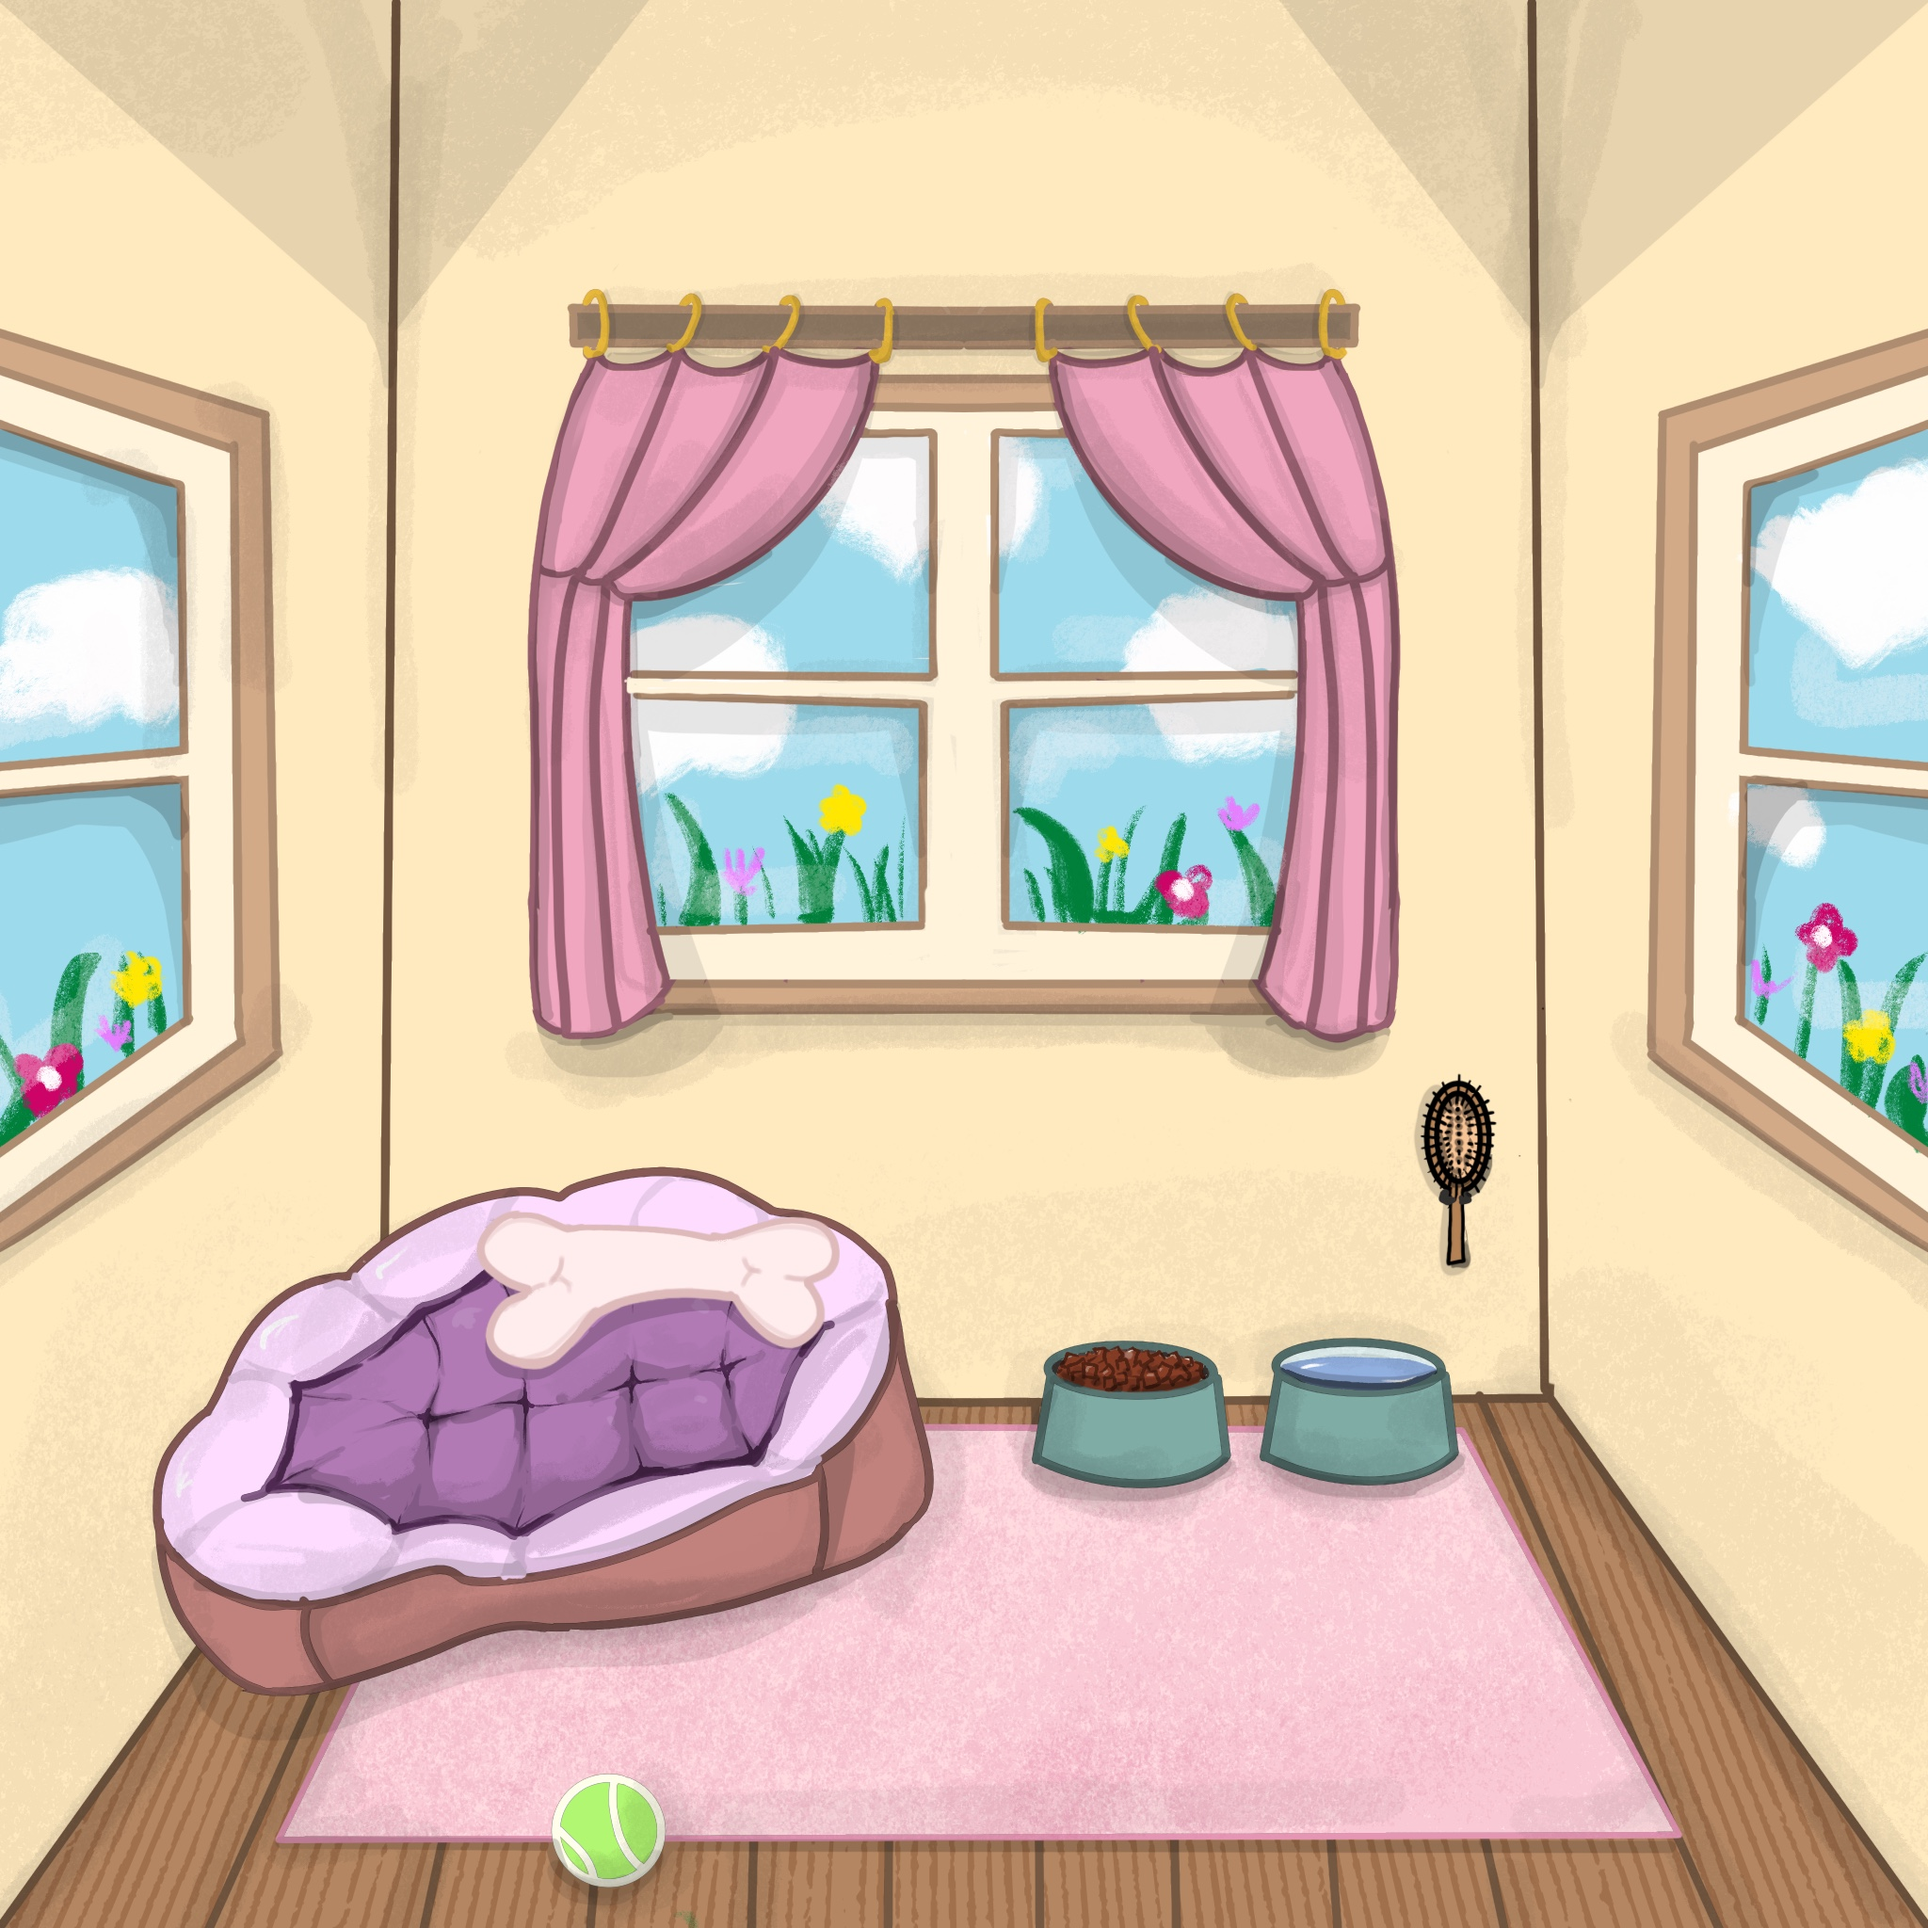
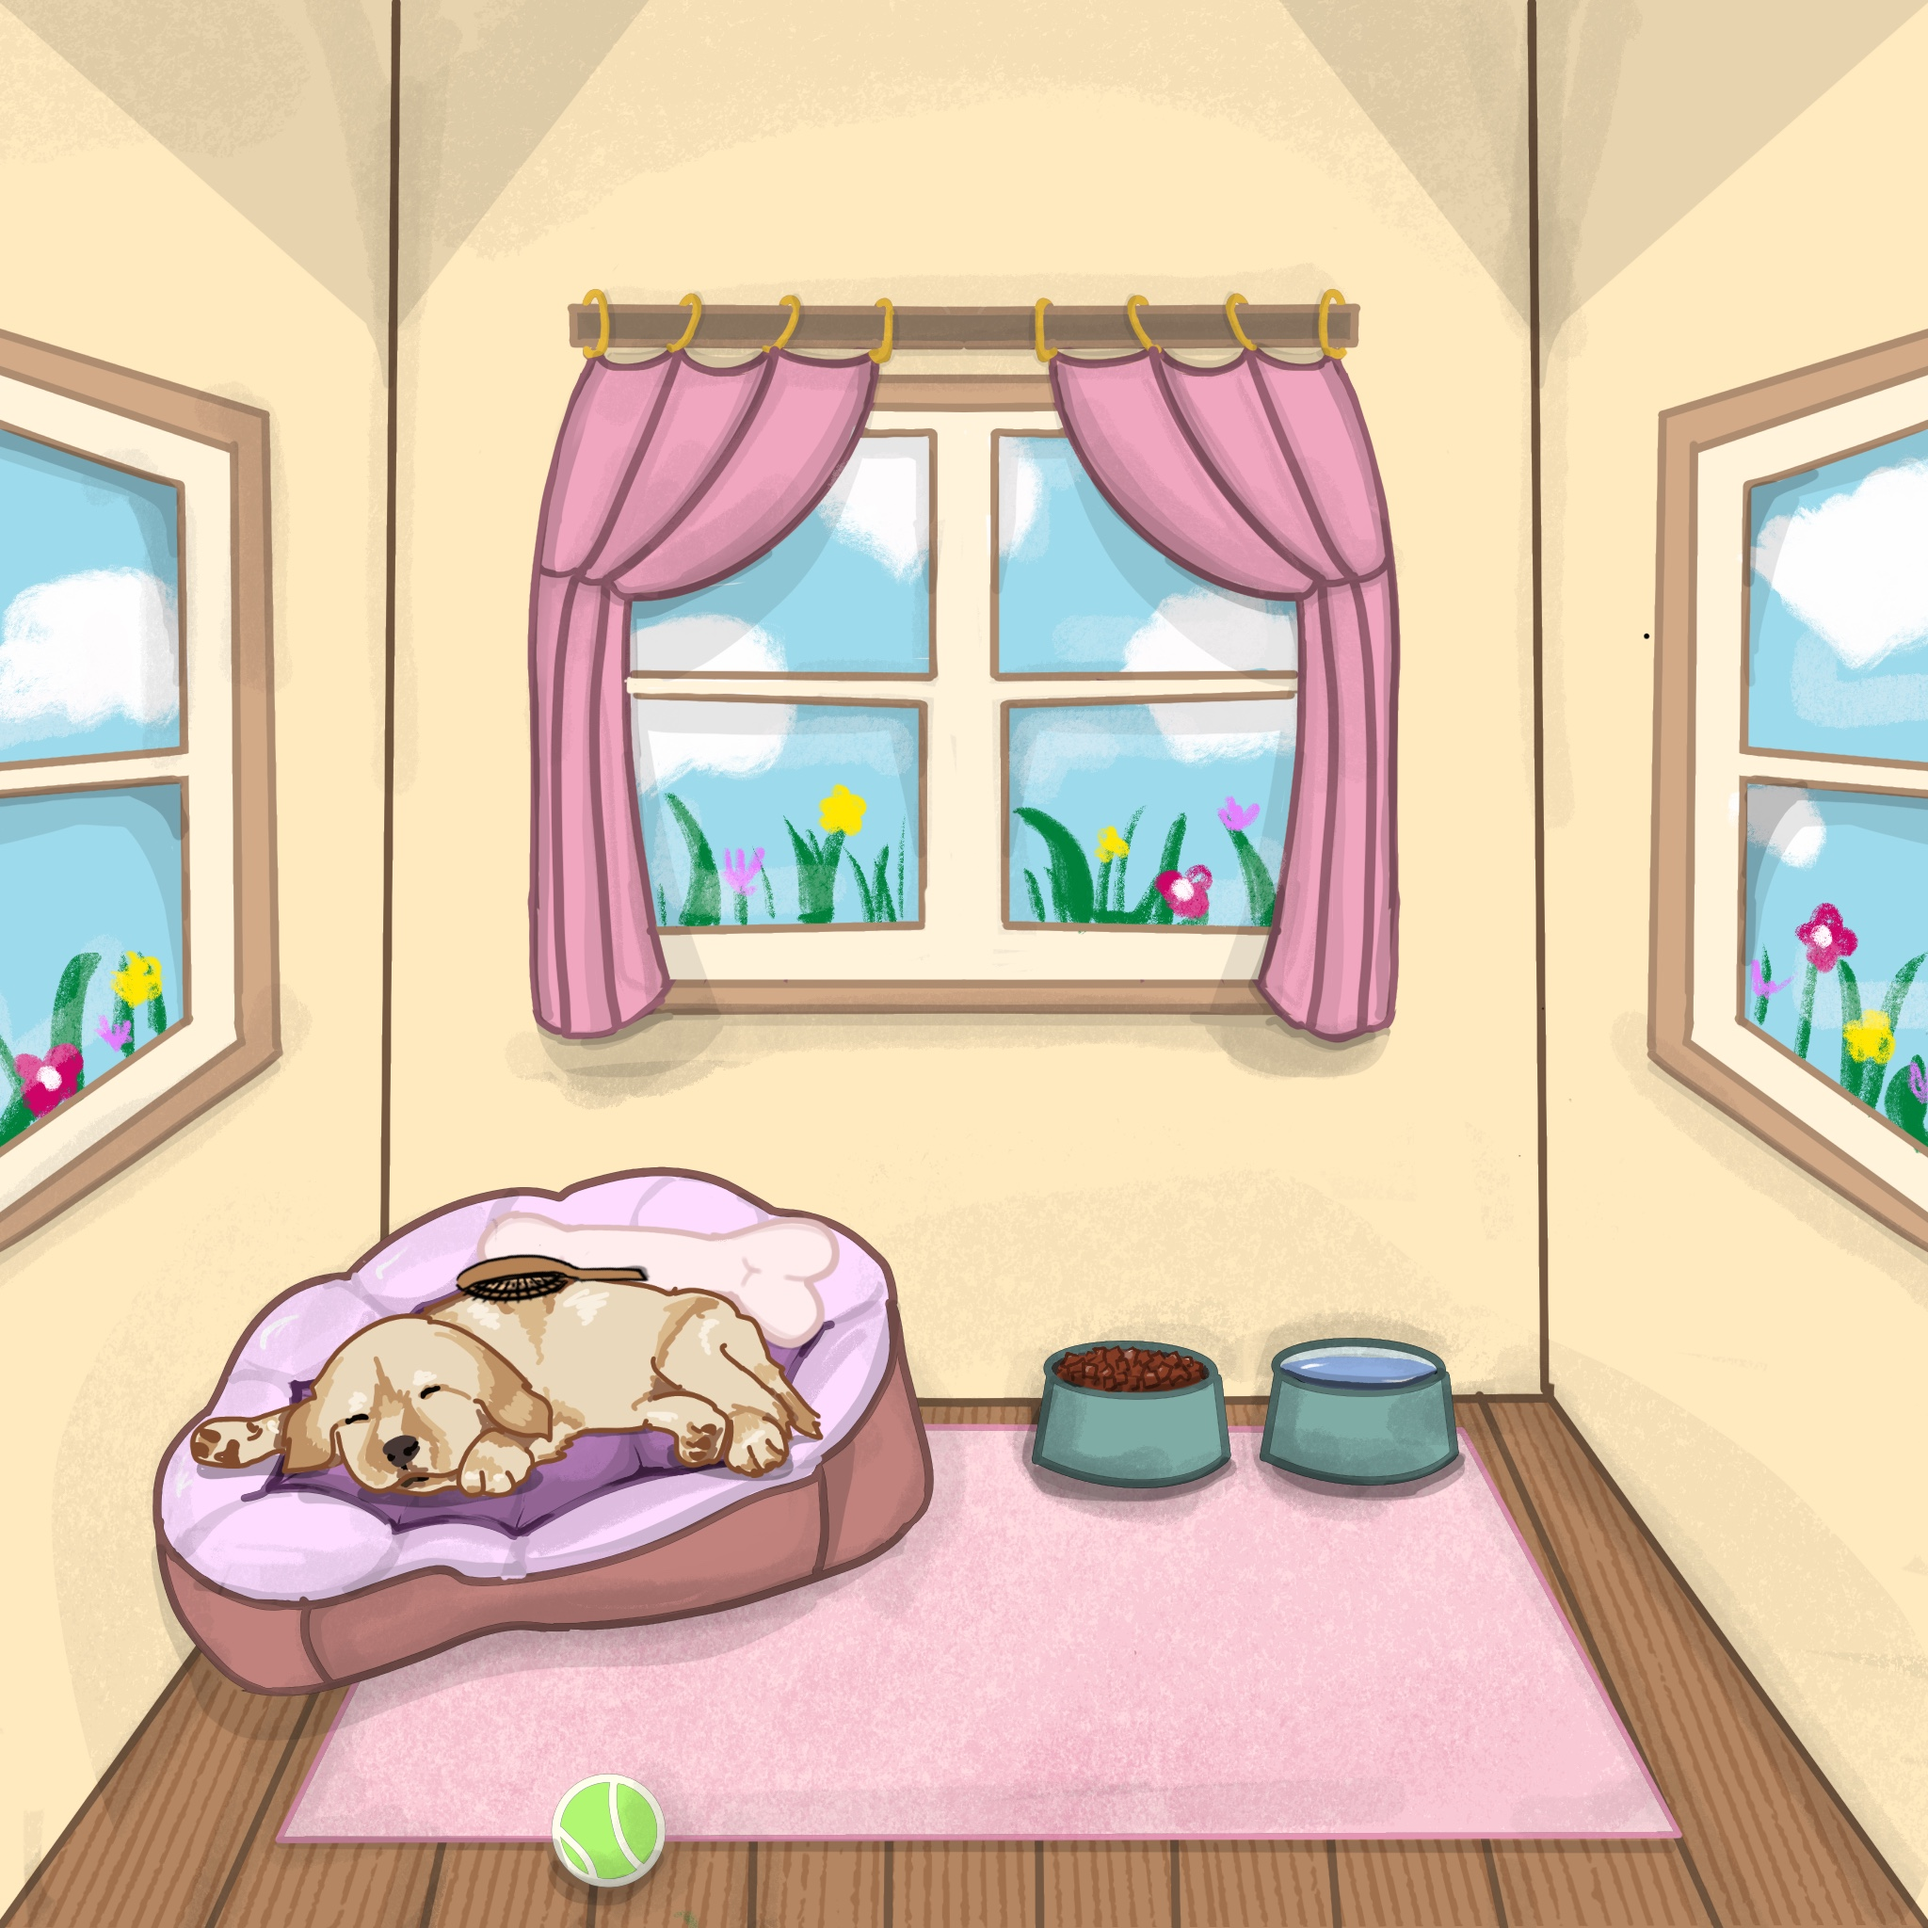
Change so background chnages with type

diff --git a/src/main/java/view/PetRoomView.java b/src/main/java/view/PetRoomView.java
@@ -52,7 +52,7 @@ public class PetRoomView extends JPanel implements PropertyChangeListener, Actio
         this.petRoomViewModel = petRoomViewModel;
         this.petRoomViewModel.addPropertyChangeListener(this);
         this.buttonsViewModel = buttonsViewModel;
-        petRoomImage = loadBackground("Dog_room_basic.jpg");
+        petRoomImage = loadBackground(petRoomViewModel.getState().getPetType() + "_room_basic.jpg");
 
        // this.petRoomViewModel.addPropertyChangeListener(this);
 
@@ -203,7 +203,7 @@ public class PetRoomView extends JPanel implements PropertyChangeListener, Actio
         petRoomImage = loadBackground(imageName);
         repaint();
         backgroundResetTimer = new Timer(2000, e -> {
-            petRoomImage = loadBackground("Dog_room_basic.jpg");
+            petRoomImage = loadBackground(petRoomViewModel.getState().getPetType() + "_room_basic.jpg");
             repaint();
             backgroundResetTimer.stop();
         });
